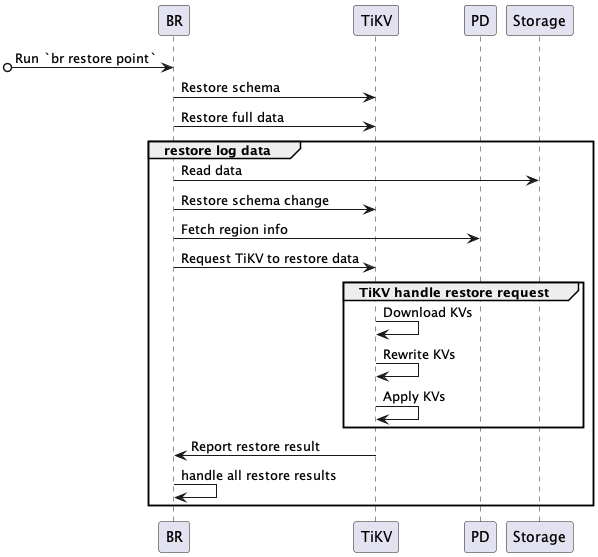
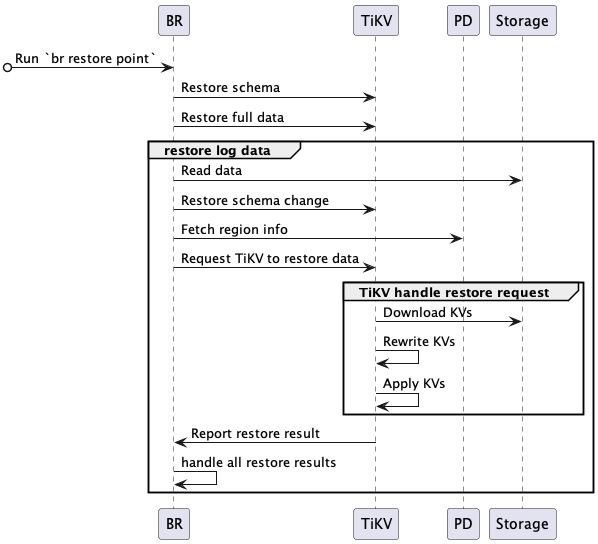
add snapshot br process design

diff --git a/br-refactor/br-snapshot-architecture.md b/br-refactor/br-snapshot-architecture.md
@@ -13,67 +13,66 @@ summary: 了解 TiDB 快照备份和恢复功能的架构设计
 
 ## 备份集群快照数据流程
 
-**BR 组件**
+集群快照数据备份的流程如下：
 
-1. 接收备份命令 (`br backup full`)
+![snapshot backup process design](/media/br/br-snapshot-backup-ts.png)
+
+1. BR 接收备份命令 (`br backup full`)
     * 获得快照点（backup ts）、备份存储地址，确定备份对象
 
-2. 调度备份数据
+2. BR 调度备份数据
     * **Pause GC**: 配置 TiDB 集群，防止接下来要备份的数据被 [TiDB GC 机制](/garbage-collection-overview.md)回收掉
     * **Fetch TiKV and region info**: 访问 pd 获取所有 tikv 节点访问地址，以及数据的 region 分布的位置信息
     * **Request TiKV to backup data**: 创建 BackupRequest 发送给相应的 tikv 节点，BackupRequest 包含 backup ts、需要备份的 kv region、备份存储地址
 
-3. 从各个 TiKV 获取恢复结果
+3. TiKV 接受备份请求，初始化 backup worker
+    * tikv 节点接收到 BackupRequest 后，启动 backup worker
+    * backup worker 计算需要备份的 kv region
+
+4. TiKV 备份数据
+    * **Scan KVs**：backup worker region (only leader) 读取 backup ts 的快照数据
+    * **Generate SST**：backup worker 将读取到的数据生成 SST 文件，保存在本地临时目录中
+    * **Upload SST & SST**: backup worker 上传 SST 到备份存储中
+
+5. BR 从各个 TiKV 获取恢复结果
     * 局部数据因为 region 变动而备份失败。br 重试这些数据的备份
     * 任意数据被判断备份失败，则备份任务失败
     * 全部数据备份成功后，则进入 backup finalization
 
-4. 备份元信息
+6. BR 备份元信息
     * **Backup schemas**：备份 table schema 并且计算 table data checksum
     * **Upload metadata**：生成 backup metadata，并上传到备份存储。 backup metadata 包含 backup ts、表和对应的备份文件、data checksum 和 file checksum 等信息
 
-**TiKV 组件**
-
-1. 接受备份请求，初始化 backup worker
-    * tikv 节点接收到 BackupRequest 后，启动 backup worker
-    * backup worker 计算需要备份的 kv region
-
-2. 备份数据
-    * **Scan KVs**：backup worker region (only leader) 读取 backup ts 的快照数据
-    * **Generate SST**：backup worker 将读取到的数据生成 SST 文件，保存在本地临时目录中
-    * **Upload SST**: backup worker 上传 SST 到备份存储中
-    * **Report backup result**：backup worker 返回备份结果给 br，包含备份结果、备份的文件信等信息
-
 ## 恢复快照备份数据流程
 
-**BR 组件**
+恢复集群快照备份数据的流程如下：
 
-1. 接收恢复命令 (`br restore`)
+![snapshot restore process design](/media/br/br-snapshot-restore-ts.png)
+
+1. BR 接收恢复命令 (`br restore`)
     * 获得快照备份数据存储地址、要恢复 db/table
     * 检查要恢复的 table 是否符合要求不存在
 
-2. 调度恢复数据
+2. BR 调度恢复数据
     * **Pause region scheudle**：请求 pd 在恢复期间关闭自动的 region schedule
     * **Restore schema**: 读取备份数据的 schema， 恢复的 database 和 table (注意新建表的 table id 与备份数据可能不一样)
     * **Split & scatter region**：br 基于备份数据信息，请求 pd 分配 region（split region), 并调度 region 均匀分布到存储节点上（scatter region）。每个 region 都有明确的数据范围[start key, end key] 用于解析来恢复数据写入。
     * **Request TiKV to restore data**：根据 pd 分配 region 结果，创建 RestoreRquest 发送到对应的 tikv 节点，RestoreRquest 包含要恢复的备份数据、新建表的 table ID
 
-3. 从各个 TiKV 获取恢复结果
-    * 局部数据恢复因为 RegionNotFound/EpochNotMatch 等原因失败，br 重试恢复这些数据
-    * 存在备份数据恢复失败，则恢复任务失败
-    * 全部备份都回复成功后，则恢复任务成功
-
-**TiKV 组件**
-
-1. 接受恢复请求，初始化 restore worker 
+3. TiKV 接受恢复请求，初始化 restore worker 
     * tikv 节点接收到 RestoreRquest 后，启动一个 restore worker
     * restore worker 计算恢复数据需要读取的备份数据
 
-2. 恢复数据
+4. TiKV 恢复数据
     * **Download SST**：restore worker 从备份存储中 download 相应的备份数据到本地
     * **Rewrite KVs**：restore worker 根据新建表 table ID， 对备份数据相应表的 kv 进行重写 —— 将原有的 tableID 替换为新创建的 tableID。同样的 indexID 也需要相同的处理
     * **Ingest SST**：restore worker 将处理好的 SST 文件 ingest 到 rocksdb 中
     * **Report restore result**：restore worker 返回恢复结果给 br
+
+5. 从各个 TiKV 获取恢复结果
+    * 局部数据恢复因为 RegionNotFound/EpochNotMatch 等原因失败，br 重试恢复这些数据
+    * 存在备份数据恢复失败，则恢复任务失败
+    * 全部备份都回复成功后，则恢复任务成功
 
 快照数据备份恢复流程的详细设计可以参考[备份恢复设计方案](https://github.com/pingcap/tidb/blob/master/br/docs/cn/2019-08-05-new-design-of-backup-restore.md)。
 
